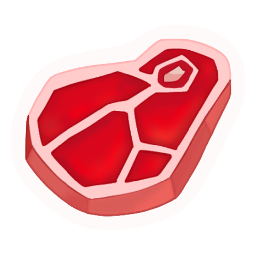
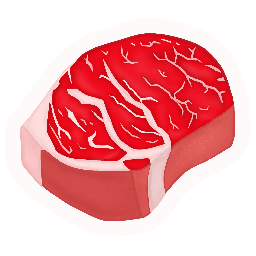
feat : change animal size and change food sprites

diff --git a/src/game/zoo-feeder/entity/script/animal.js b/src/game/zoo-feeder/entity/script/animal.js
@@ -11,6 +11,8 @@ export default class Animal extends Entity {
     super(scene, x, y, null);
     //this.setOrigin(0.5,1);
 
+    this.sizeScale = sizeScale;
+
     this.randomAnimal();
     // this.Sprite = this.addComponent(EmojiRenderer,{
     //     emojiSprite: this.currentAnimal.Sprite,
@@ -21,16 +23,17 @@ export default class Animal extends Entity {
     if (this.currentAnimal.Sprite == "lion_sprite") {
       this.Sprite = this.addComponent(SpriteRenderer, {
         textureKey: this.currentAnimal.Sprite,
-        sizeScale: sizeScale,
-        offsetY: 50,
+        sizeScale: sizeScale * 0.85,
+        offsetY: 45,
       });
 
-      this.setDisplaySize(230, 269);
+      // Shift origin up so the lion sprite renders lower visually
+      //this.setOrigin(0.5, 0.4);
 
-      this.addComponent(ShadowComponent, {
+      this.Shadow = this.addComponent(ShadowComponent, {
         radius: 125,
         alpha: 0.2,
-        offset: -35,
+        offset: -30,
       });
     } else {
       this.Sprite = this.addComponent(SpriteRenderer, {
@@ -38,9 +41,7 @@ export default class Animal extends Entity {
         sizeScale: sizeScale,
       });
 
-      this.setDisplaySize(230, 269);
-
-      this.addComponent(ShadowComponent, {
+      this.Shadow = this.addComponent(ShadowComponent, {
         radius: 125,
         alpha: 0.2,
         offset: -60,
@@ -49,7 +50,10 @@ export default class Animal extends Entity {
 
     this.setCollideWorldBounds(true);
 
-    this.emotePopup = new EmotePopup(scene,x,y - 150);
+    this.emotePopup = new EmotePopup(scene, x, y - 200);
+
+    console.log("POS : " + this.x + " " + this.y + " " + this.currentAnimal.Sprite);
+    this.initialY = this.y;
   }
   onEat(incomingFoodType) {
     if (this.currentAnimal.AcceptableFoodType == incomingFoodType) {
@@ -58,7 +62,7 @@ export default class Animal extends Entity {
       this.emotePopup.setHappy();
     } else {
       //console.log("I can't eat this");
-      new TextPopup(this.scene,this.x,this.y,"กินไม่ได้นะ","#ff0000");
+      new TextPopup(this.scene, this.x, this.y, "กินไม่ได้นะ", "#ff0000");
       this.emotePopup.setSad();
       this.scene.onGetUneatableFood();
     }
@@ -71,5 +75,23 @@ export default class Animal extends Entity {
   changeAnimal() {
     this.randomAnimal();
     this.Sprite.changeSprite(this.currentAnimal.Sprite);
+
+    // Apply lion-specific adjustments
+    if (this.currentAnimal.Sprite == "lion_sprite") {
+      this.setScale(this.sizeScale * 0.85);
+      //this.setOrigin(0.5, 0.4);
+      this.Sprite.offsetY = 45;
+      this.Shadow.offset = -30;
+      console.log("POS : " + this.x + " " + this.y + " " + this.currentAnimal.Sprite);
+    } else {
+      this.setScale(this.sizeScale);
+      //this.setOrigin(0.5, 0.5);
+      this.Sprite.offsetY = 0;
+      this.Shadow.offset = -60;
+      console.log("POS : " + this.x + " " + this.y + " " + this.currentAnimal.Sprite);
+    }
+
+    // Re-sync physics body to match new scale and offset
+    this.Sprite.syncPhysicsBody();
   }
 }

diff --git a/src/game/zoo-feeder/entity/script/conveyer.js b/src/game/zoo-feeder/entity/script/conveyer.js
@@ -21,7 +21,7 @@ export default class Conveyer extends Entity {
         this.beltBackground.lineStyle(12, 0xe0e0e0, 1);
         // Dark grey interior (Fill)
         this.beltBackground.fillStyle(0x383838, 1);
-        
+
         // Draw the rounded rectangle centered at X, starting at Y
         this.beltBackground.fillRoundedRect(x - _beltWidth / 2, y, _beltWidth, _beltHeight, _cornerRadius);
         this.beltBackground.strokeRoundedRect(x - _beltWidth / 2, y, _beltWidth, _beltHeight, _cornerRadius);
@@ -32,11 +32,11 @@ export default class Conveyer extends Entity {
         if (!scene.textures.exists(_arrowTextureName)) {
             const arrowGraphics = scene.add.graphics();
             arrowGraphics.fillStyle(0x4a4a4a, 1);
-            
+
             // Draw a downward-pointing triangle
             // Coordinates: (top-left, top-right, bottom-center)
             arrowGraphics.fillTriangle(20, 10, 80, 10, 50, 40);
-            
+
             // Save graphics to texture memory (width: 100, height: 100 to give spacing)
             arrowGraphics.generateTexture(_arrowTextureName, 100, 100);
             arrowGraphics.destroy(); // Clean up graphics object
@@ -53,7 +53,7 @@ export default class Conveyer extends Entity {
         this.conveyerArrows.setDepth(-1);
 
         // Position the animal near the bottom
-        this.animal = new Animal(scene, x, y + _beltHeight + 200, 0.75);
+        this.animal = new Animal(scene, x, y + _beltHeight + 200, 0.9);
         this.foods = [];
     }
 
@@ -62,7 +62,7 @@ export default class Conveyer extends Entity {
 
         const _deltaInSeconds = delta / 1000;
         const _moveDistance = Math.abs(this.speed) * _deltaInSeconds;
-        
+
         // Scroll the dynamically generated arrow texture downwards
         this.conveyerArrows.tilePositionY -= _moveDistance;
     }
@@ -78,13 +78,13 @@ export default class Conveyer extends Entity {
     spawnFoods() {
         // Spawns fruit at the top (this.y)
         const _fruit = new Fruit(this.scene, this.x, this.y + 200, this, 0.75);
-        
+
         // Ensure initial velocity is pointing downwards
         _fruit.setVelocityY(Math.abs(this.speed));
-        
+
         this.foods.push(_fruit);
         this.spawnCooldown = 0;
-        
+
         if (this.spawnTimer != null) {
             this.spawnTimer.delay = this.randomSpawnTime(9, 15) * 100;
         }

diff --git a/src/game/zoo-feeder/scenes/UITestScene.js b/src/game/zoo-feeder/scenes/UITestScene.js
@@ -30,12 +30,14 @@ export default class UITestScene extends Phaser.Scene {
     this.load.image('apple_sprite', 'assets/zoo-feeder/food/Apple.png')
     this.load.image('battery_sprite', 'assets/zoo-feeder/food/Battery.png')
     this.load.image('beef_sprite', 'assets/zoo-feeder/food/Beef.png')
+    this.load.image('boot_sprite', 'assets/zoo-feeder/food/Boot.png')
+    this.load.image('bottle_sprite', 'assets/zoo-feeder/food/Bottle.png')
     this.load.image('chicken_sprite', 'assets/zoo-feeder/food/Chick.png')
     this.load.image('corn_sprite', 'assets/zoo-feeder/food/Corn.png')
     this.load.image('fish_sprite', 'assets/zoo-feeder/food/Fish.png')
-    this.load.image('garbage_sprite', 'assets/zoo-feeder/food/Garbage.png')
+    // this.load.image('garbage_sprite', 'assets/zoo-feeder/food/Garbage.png')
     this.load.image('plant_sprite', 'assets/zoo-feeder/food/Plant.png')
-    this.load.image('soda_sprite', 'assets/zoo-feeder/food/Soda.png')
+    // this.load.image('soda_sprite', 'assets/zoo-feeder/food/Soda.png')
     //Animal Sprite
     this.load.image('bear_sprite', 'assets/zoo-feeder/animal/B_Bear.png')
     this.load.image('cow_sprite', 'assets/zoo-feeder/animal/B_Cow.png')
@@ -141,7 +143,7 @@ export default class UITestScene extends Phaser.Scene {
     const uiRoot = document.getElementById('ui-root');
     this.tutorialPanel = new TutorialPanel(uiRoot, {
       title: "คู่มือการเล่น",
-      description: StartMenuSetting.instructions, 
+      description: StartMenuSetting.instructions,
       panelBorderColor: StartMenuSetting.panelBorderColor,
       panelHeaderColor: StartMenuSetting.panelHeaderColor,
       primaryFontColor: StartMenuSetting.primaryFontColor,

diff --git a/src/ui/tutorial-panel.js b/src/ui/tutorial-panel.js
@@ -179,8 +179,8 @@ export class TutorialPanel {
                         gap: 10px;
                     ">
                         <img src="assets/zoo-feeder/food/Battery.png" style="width: 170px; height: 170px; object-fit: contain;" />
-                        <img src="assets/zoo-feeder/food/Garbage.png" style="width: 170px; height: 170px; object-fit: contain;" />
-                        <img src="assets/zoo-feeder/food/Soda.png" style="width: 170px; height: 170px; object-fit: contain;" />
+                        <img src="assets/zoo-feeder/food/Boot.png" style="width: 170px; height: 170px; object-fit: contain;" />
+                        <img src="assets/zoo-feeder/food/Bottle.png" style="width: 170px; height: 170px; object-fit: contain;" />
                     </div>
                 </div>
                 <button id="tutorial-start-button" class="result-btn-home result-btn-home--start result-btn-home--tutorial">เริ่มเล่นเกม</button>

diff --git a/src/game/zoo-feeder/constants.js b/src/game/zoo-feeder/constants.js
@@ -40,7 +40,7 @@ export const FoodTypes = Object.freeze({
 export const FoodSpriteLibrary = {
     [FoodTypes.VEGETABLE]: ['apple_sprite', 'corn_sprite', 'plant_sprite'],
     [FoodTypes.MEAT]: ['beef_sprite', 'chicken_sprite', 'fish_sprite'],
-    [FoodTypes.JUNK]: ['battery_sprite', 'garbage_sprite', 'soda_sprite']
+    [FoodTypes.JUNK]: ['battery_sprite', 'boot_sprite', 'bottle_sprite']
 }
 export const AnimalSetting = Object.freeze({
     BEAR: {

diff --git a/src/game/zoo-feeder/entity/script/fruit.js b/src/game/zoo-feeder/entity/script/fruit.js
@@ -38,6 +38,7 @@ export default class Fruit extends Entity {
                 //console.log("You clicked the food!");
                 entity.emit('itemSorted');
                 entity.disableInteractive();
+                entity.setCollideWorldBounds(false);
 
                 const _direction = Phaser.Math.RND.pick([-1, 1]);
                 const _speed = 300;
